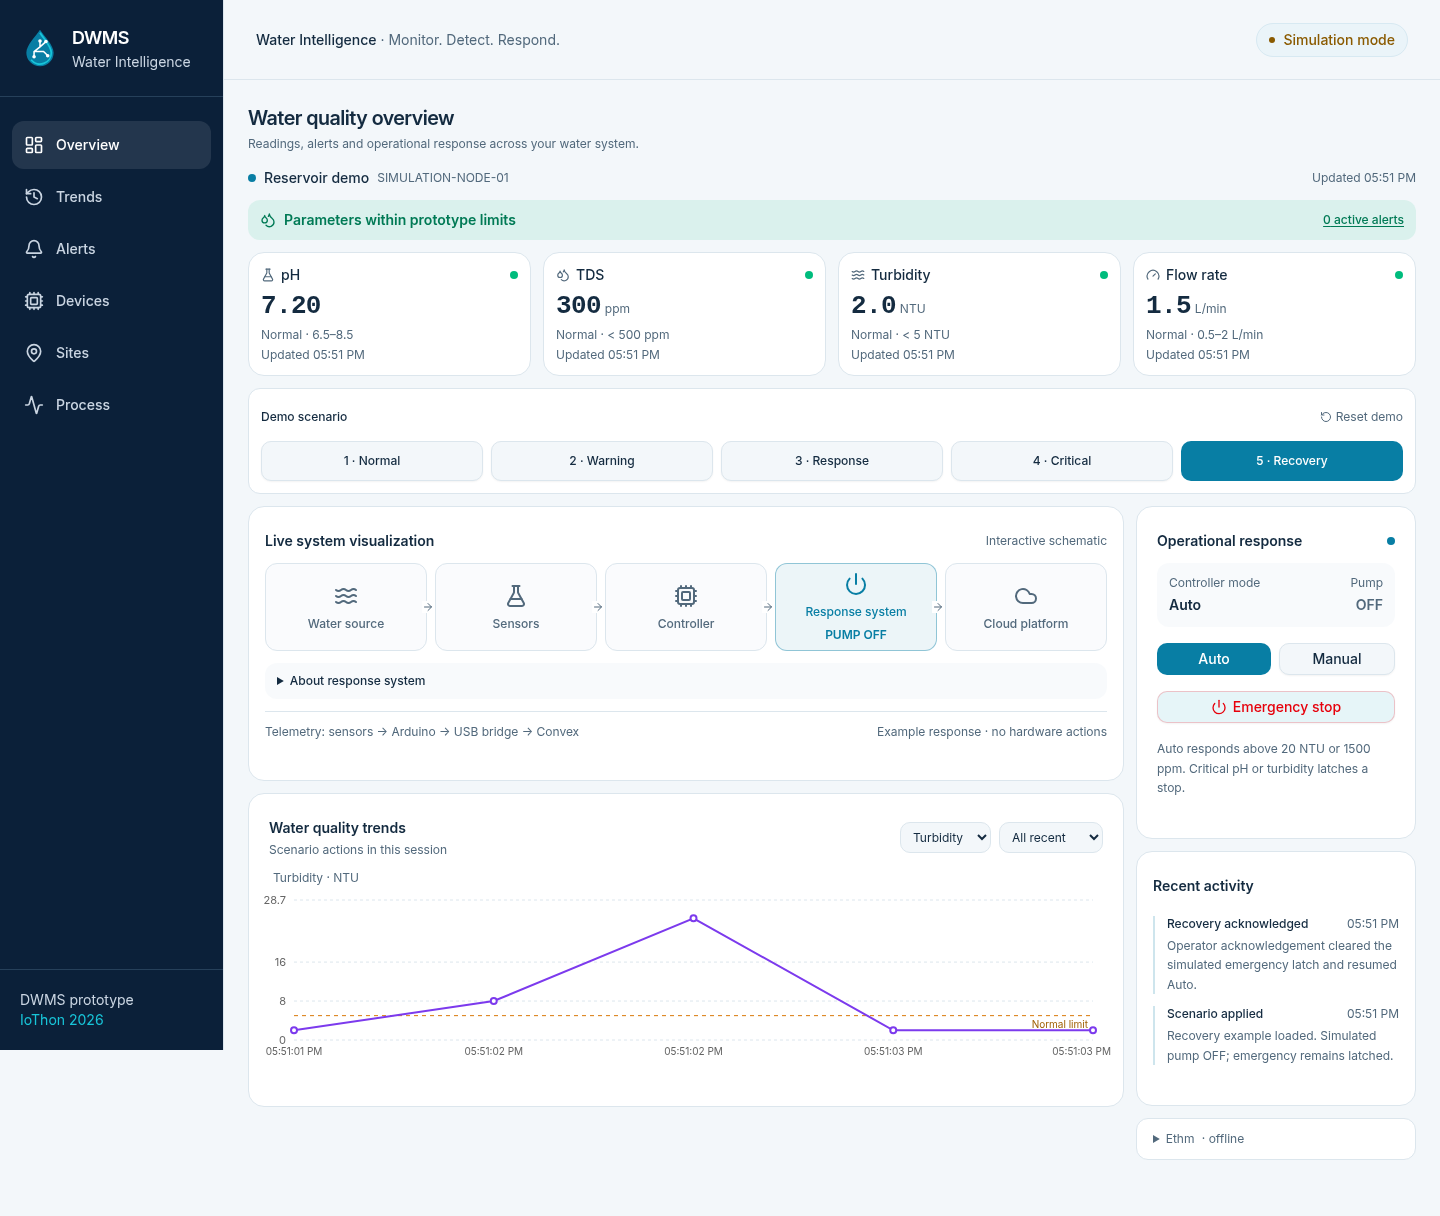
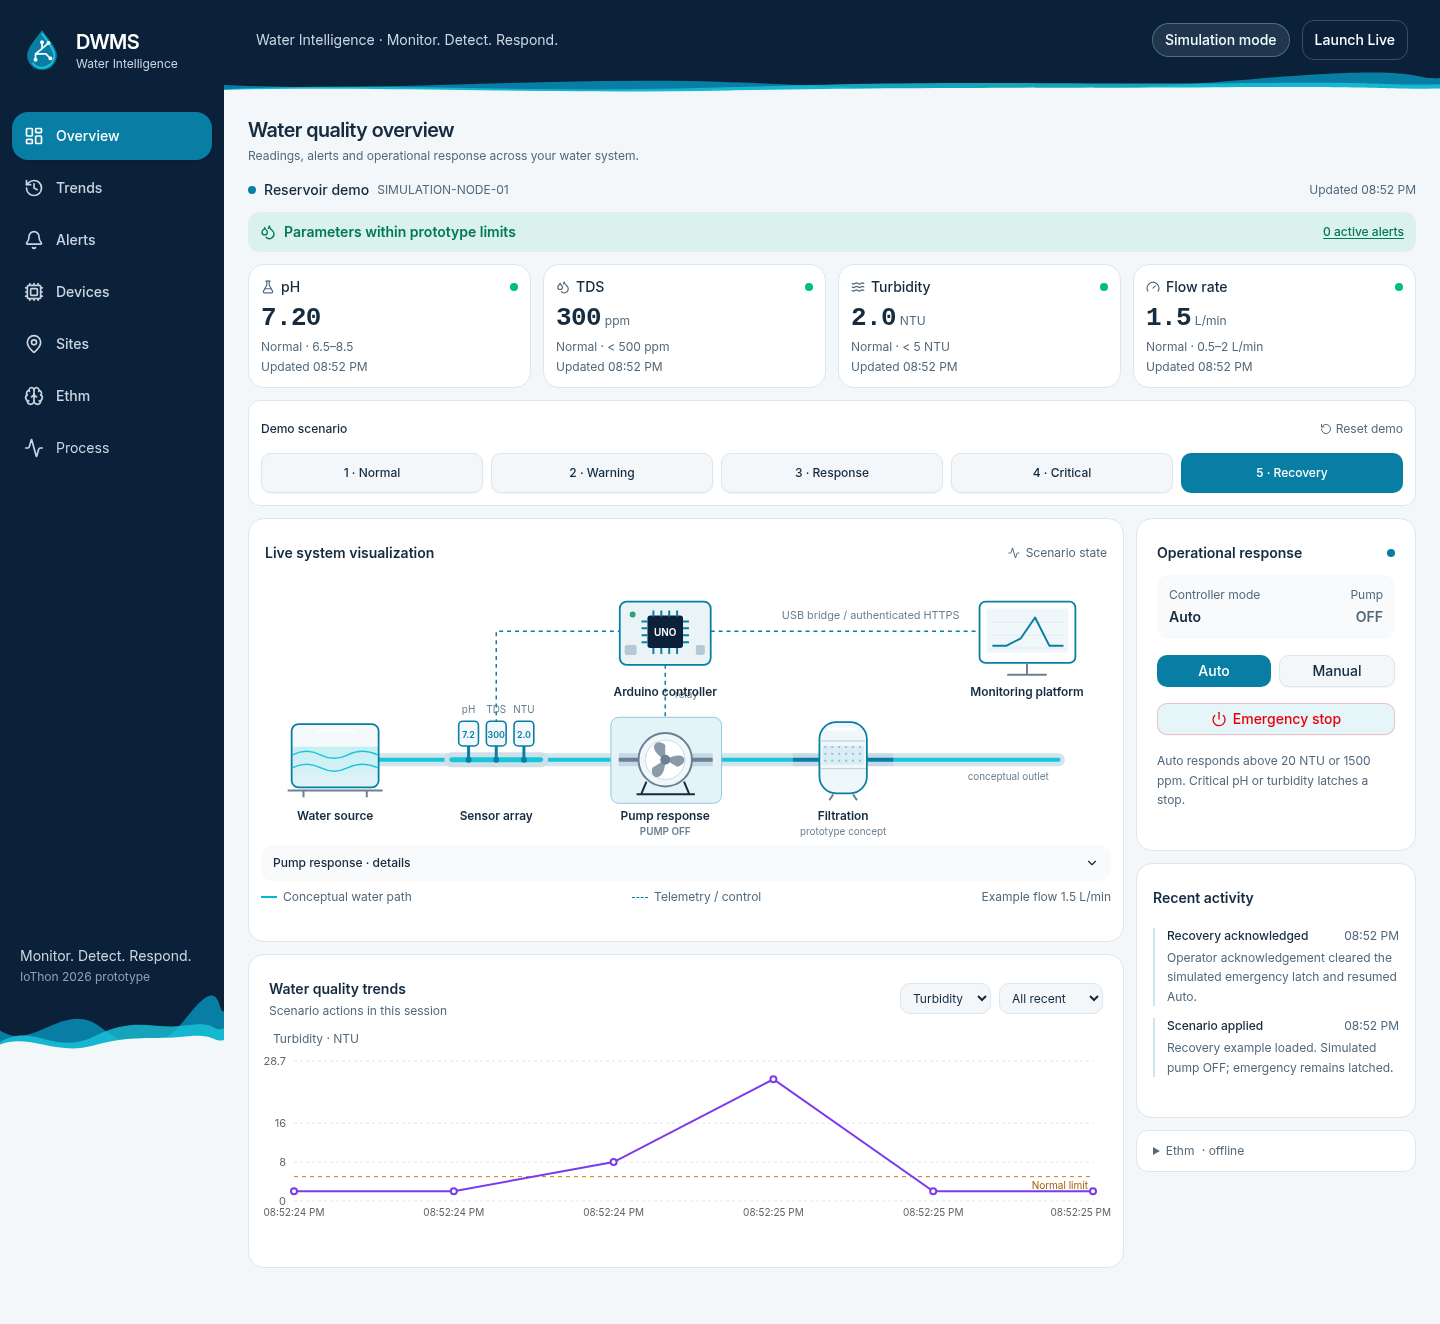
Finalize release entry states and production security evidence

diff --git a/src/components/live-access-state.tsx b/src/components/live-access-state.tsx
@@ -25,7 +25,7 @@ export function LiveAccessState({
   const message = pending
     ? "Checking access. No device values are loaded."
     : !isConfigured
-      ? "Live monitoring is not configured on this deployment. No device values are loaded."
+      ? "Live sign-in is temporarily unavailable. No device values are loaded."
       : !isAuthenticated
         ? "Sign in to inspect device records. No device values are loaded."
         : !user
@@ -60,19 +60,20 @@ export function LiveAccessState({
           </dl>
         </CardContent>
       </Card>
-      <div className="grid grid-cols-1 gap-3 sm:grid-cols-3">
-        {["pH", "TDS", "Turbidity"].map((label) => (
+      <div className="grid grid-cols-2 gap-3 lg:grid-cols-4">
+        {["pH", "TDS", "Turbidity", "Flow"].map((label) => (
           <Card key={label}>
             <CardContent className="space-y-2 py-5">
               <p className="text-sm text-muted-foreground">{label}</p>
               <p className="font-mono text-3xl">—</p>
-              <p className="text-sm text-muted-foreground">Unknown</p>
+              <p className="text-sm text-muted-foreground">{label === "Flow" ? "Interface unverified" : "Unknown"}</p>
             </CardContent>
           </Card>
         ))}
       </div>
       <div className="flex flex-wrap items-center gap-4">
         {!isAuthenticated && isConfigured && <SignInButton />}
+        {isAuthenticated && !user && !pending && <Link to="/auth/callback" className="inline-flex min-h-11 items-center text-sm font-medium text-primary underline">Complete account setup</Link>}
         <Link
           to="/demo"
           onClick={() => setDataMode("demo")}

diff --git a/src/components/water-process-schematic.tsx b/src/components/water-process-schematic.tsx
@@ -119,7 +119,7 @@ export default function WaterProcessSchematic({ demo, connected, pumpOn, emergen
       <path d={waterPath} fill="none" stroke={emergency ? "#B6C9D5" : CYAN} strokeWidth="4" strokeLinecap="round" strokeLinejoin="round" />
       {demo && pumpOn && !emergency && <path d={waterPath} className="dwms-process-flow" fill="none" stroke="white" strokeWidth="2" strokeDasharray="4 13" strokeLinecap="round" />}
       <path d={telemetryPath} fill="none" stroke={telemetryColor} strokeWidth="1.5" strokeDasharray="4 4" strokeLinejoin="round" markerEnd={`url(#${diagramId}-arrow)`} />
-      {!mobile && <><text x="527" y="49" fill={MUTED} fontSize="11">USB bridge / authenticated HTTPS</text><text x="419" y="129" fill={MUTED} fontSize="10">relay</text><text x="715" y="211" fill={MUTED} fontSize="10">conceptual outlet</text></>}
+      {!mobile && <><text x="527" y="49" fill={MUTED} fontSize="11">USB bridge / authenticated HTTPS</text><text x="715" y="211" fill={MUTED} fontSize="10">conceptual outlet</text></>}
       {NODES.map((node) => {
         const position = positions[node];
         const active = selected === node;

diff --git a/src/pages/about/page.tsx b/src/pages/about/page.tsx
@@ -1,4 +1,4 @@
-import { Link } from "react-router-dom";
+import { WorkspaceLink as Link } from "@/components/workspace-link";
 export default function About() {
   return <div className="p-4 md:p-6 space-y-4 max-w-3xl">
     <h1 className="text-xl font-bold">DWMS · IoThon 2026</h1>

diff --git a/scripts/verify-public-demo.py b/scripts/verify-public-demo.py
@@ -134,6 +134,11 @@ def verify_viewport(browser, options, width):
         expect(page.locator("main")).to_contain_text("8.0")
         checks.append("device readings match the warning scenario")
 
+        navigate("/demo/assistant")
+        expect(page.locator("main")).to_contain_text("650")
+        expect(page.locator("main")).to_contain_text("No AI model or production records")
+        checks.append("Ethm demo context uses scenario values without a model or live records")
+
         navigate("/demo/sites")
         expect(page.locator("main")).to_contain_text("Warning")
         expect(page.locator("main")).to_contain_text("Auto · pump OFF")
@@ -144,6 +149,9 @@ def verify_viewport(browser, options, width):
         scenario("response").click()
         expect(page.get_by_role("button", name="Pump response. PUMP ON", exact=True)).to_be_visible()
         checks.append("response scenario requests simulated pump ON")
+        page.get_by_role("button", name="Arduino controller. Select for component details", exact=True).press("Enter")
+        expect(page.locator("summary").filter(has_text="Arduino controller")).to_be_visible()
+        checks.append("interactive engineering schematic responds to keyboard input")
 
         scenario("critical").click()
         expect(page.get_by_text("Emergency stop latched · pump OFF", exact=True)).to_be_visible()
@@ -196,6 +204,10 @@ def verify_viewport(browser, options, width):
         no_overflow("landing page")
         if width in (390, 1440):
             capture("landing", full_page=True)
+        for route in ("/demo/rules", "/demo/about"):
+            page.goto(options.url + route, wait_until="domcontentloaded")
+            expect(page.locator("main h1")).to_be_visible()
+            no_overflow(route)
         assert not errors, f"Browser runtime errors: {errors}"
         assert not backend_writes, f"Demo emitted backend mutation/ingestion traffic: {backend_writes}"
         checks.append("no browser runtime errors or observed device/mutation writes")
